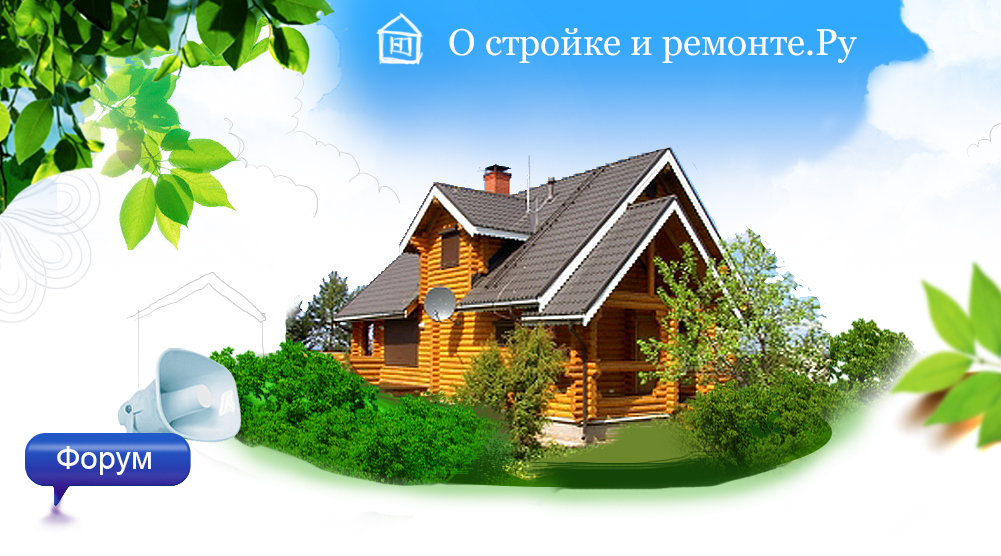
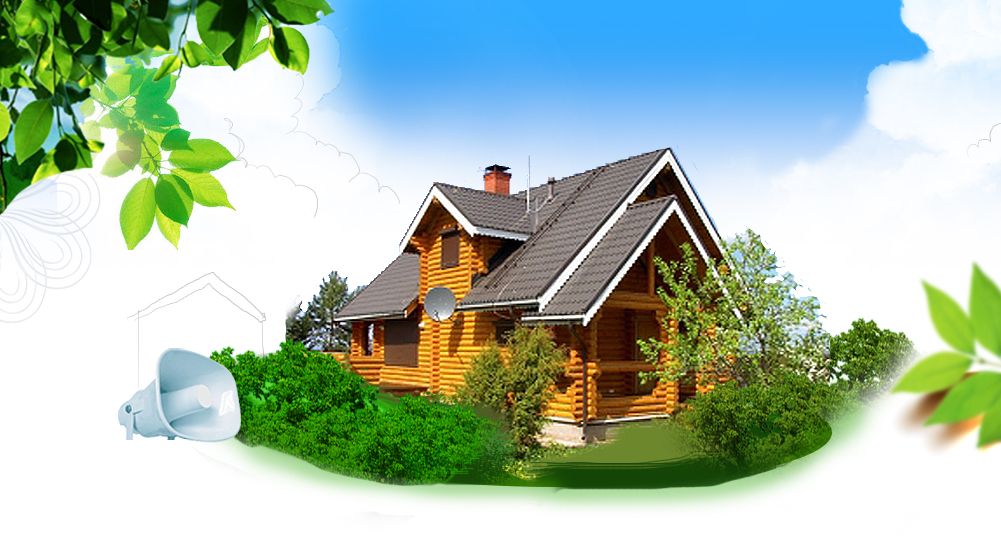
Как-то так

Changed region(s): [[0.3716, 0.0306, 0.8671, 0.1223], [0.0, 0.7644, 0.2168, 0.9478]]

diff --git a/css/style.css b/css/style.css
@@ -193,10 +193,13 @@ header nav a:hover::after
 
 .logo
 {
-    width: 84px;
-    height: 76px;
-    position: absolute;
-    left: 355px;
+    width: 513px;
+    height: 77px;
+    margin-left: 176px;    
+}
+.forumph
+{
+    margin-top: 355px;
 }
 h1
 {
@@ -226,13 +229,14 @@ padding-left: 62px;
 }
 .level1 li
 {
-    padding-bottom: 18px;
+    padding-bottom: 7px;
 }
 .level1 li a
 {
     color: #6e508f;
     font-family:" Arial";
     font-size: 20px;
+    font-weight: bold;
 }
 a:hover
 {
@@ -291,9 +295,15 @@ section
     padding: 20px;
     margin-left: 21px;
 }
+.level2 a
+{
+    color: #3366ff;
+}
+
 .level2 ul > li:before
 {
     content: '* ';
+    color: #3366ff;
 }
 h3
 {

diff --git a/index.html b/index.html
@@ -8,8 +8,10 @@
 </head>
 <body>
     <div class="wrapper">
+       
         <header>
-           <a href="#" class="logo"></a>
+            <a href="#" class="logo"><img src="image/logo.jpg" alt="logo" class="logo"></a>
+              
             <nav>
             
         
@@ -28,6 +30,7 @@
                 </span>
                  <p>полезных<br> статьей</p>
             </div>
+            <img src="image/forum.jpg" alt="forum" class="forumph">
         </header>
         <main>
            <div class="in">
